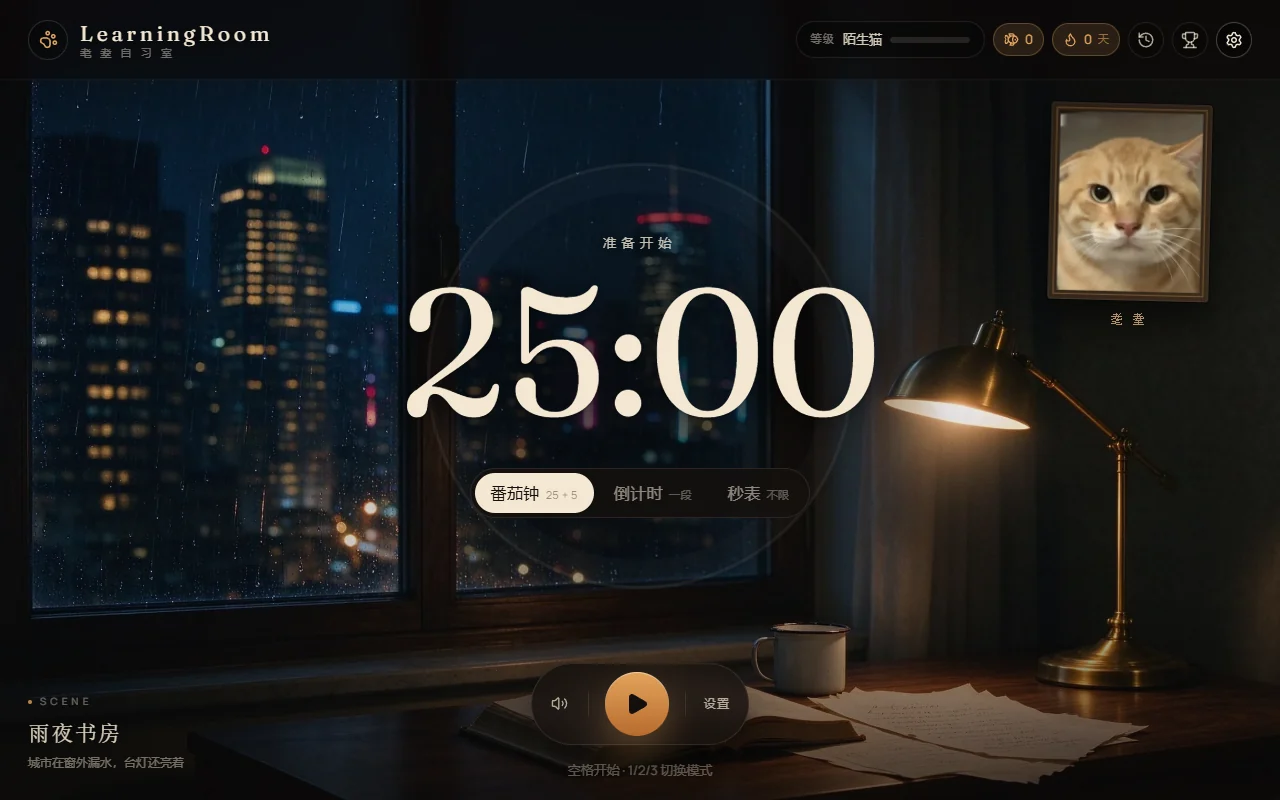
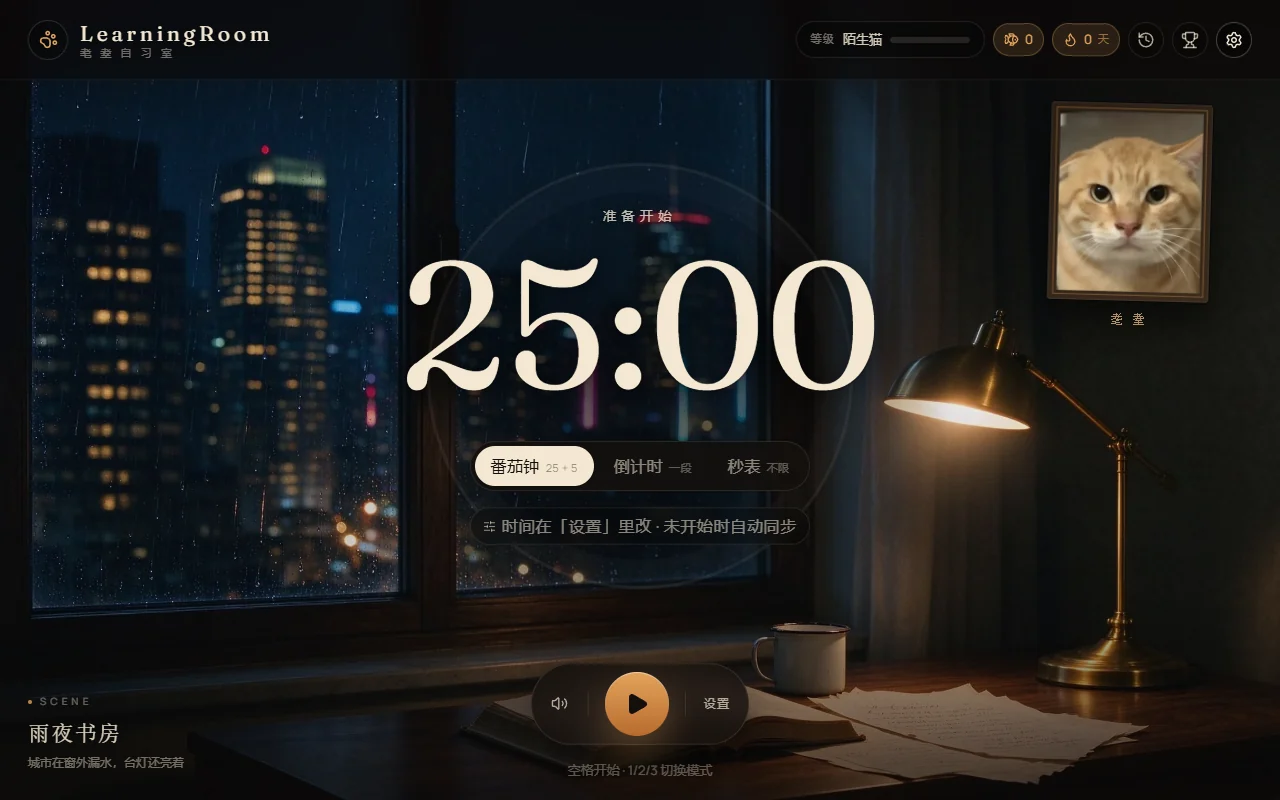
feat: 未开始时设置时长实时同步并加提示

Changed region(s): [[0.3125, 0.3125, 0.6875, 0.6875], [0.4688, 0.25, 0.5312, 0.3125]]

diff --git a/src/App.tsx b/src/App.tsx
@@ -1,4 +1,5 @@
 import { useEffect, useState } from 'react'
+import { SlidersHorizontal } from 'lucide-react'
 import { SceneStage } from '@/components/scene/SceneStage'
 import { TopBar } from '@/components/hud/TopBar'
 import { TimerDisplay } from '@/components/timer/TimerDisplay'
@@ -37,6 +38,7 @@ export default function App() {
   const settings = useSettings((s) => s.settings)
   const progress = useProgress((s) => s.progress)
   const timer = useSession((s) => s.timer)
+  const resetSession = useSession((s) => s.resetSession)
   const patrol = useSession((s) => s.patrol)
   const peek = useSession((s) => s.peek)
   const result = useSession((s) => s.result)
@@ -52,6 +54,21 @@ export default function App() {
   useEffect(() => {
     document.documentElement.dataset.motion = reduced ? 'on' : 'off'
   }, [reduced])
+
+  // 未开始时，设置里的时长/模式变化要立即反映到主界面；开始后不打断当前计时。
+  useEffect(() => {
+    if (timer.status !== 'idle') return
+    resetSession()
+  }, [
+    settings.mode,
+    settings.focusMin,
+    settings.breakMin,
+    settings.rounds,
+    settings.autoStartBreak,
+    settings.autoStartFocus,
+    timer.status,
+    resetSession,
+  ])
 
   useEffect(() => {
     if (!import.meta.env.DEV) return
@@ -107,6 +124,17 @@ export default function App() {
               <div className="mt-7">
                 <ModeSwitch />
               </div>
+              {timer.status === 'idle' && timer.mode !== 'stopwatch' && (
+                <button
+                  type="button"
+                  onClick={() => setPanel('settings')}
+                  aria-label="打开设置修改时长"
+                  className="mt-4 flex items-center gap-1.5 rounded-full border border-paper/10 bg-black/25 px-3 py-1.5 text-[13px] tracking-[0.04em] text-paper/55 backdrop-blur-sm transition hover:border-amber/30 hover:text-paper/85"
+                >
+                  <SlidersHorizontal size={13} />
+                  时间在「设置」里改 · 未开始时自动同步
+                </button>
+              )}
             </div>
           </div>
         </main>

diff --git a/src/lib/timer.ts b/src/lib/timer.ts
@@ -257,8 +257,9 @@ export function totalFocusMs(state: TimerState, now: number): number {
 }
 
 export function remainingSec(state: TimerState, now: number): number {
-  if (state.mode === 'stopwatch' && state.phase === 'focus') {
-    return Math.floor(totalFocusMs(state, now) / 1000)
+  if (state.mode === 'stopwatch') {
+    if (state.phase === 'idle') return 0
+    if (state.phase === 'focus') return Math.floor(totalFocusMs(state, now) / 1000)
   }
   if (state.phase === 'idle') return state.focusSec
   if (state.phaseEndsAt === null) return 0

diff --git a/src/components/panels/SettingsPanel.tsx b/src/components/panels/SettingsPanel.tsx
@@ -70,7 +70,7 @@ export function SettingsPanel({ open, onClose }: SettingsPanelProps) {
             onChange={(checked) => update({ autoStartFocus: checked })}
           />
           <p className="text-[12px] leading-relaxed text-paper/35">
-            修改时长只影响下一场；正在进行的计时不会被打断。
+            未开始时修改会立即同步到主界面；开始后只影响下一场，不会打断当前计时。
           </p>
         </Section>
 

diff --git a/src/test/timer.test.ts b/src/test/timer.test.ts
@@ -286,6 +286,12 @@ describe('timer: abort', () => {
 })
 
 describe('timer: stopwatch', () => {
+  it('idle 时显示 00:00，而不是配置的专注时长', () => {
+    const state = makeTimer({ mode: 'stopwatch' })
+    expect(state.phase).toBe('idle')
+    expect(remainingSec(state, T0)).toBe(0)
+  })
+
   it('running 时 remainingSec 是累计秒，END 结算累计时长', () => {
     let state = start(makeTimer({ mode: 'stopwatch' }))
 

diff --git a/README.md b/README.md
@@ -54,7 +54,7 @@ npm run dev
 打开 `http://localhost:5173`。
 
 ```bash
-npm run test     # 单元测试（73 个用例）
+npm run test     # 单元测试（74 个用例）
 npm run lint     # ESLint
 npm run build    # 类型检查 + 生产构建
 npm run verify   # lint + test + build（提交前跑）
